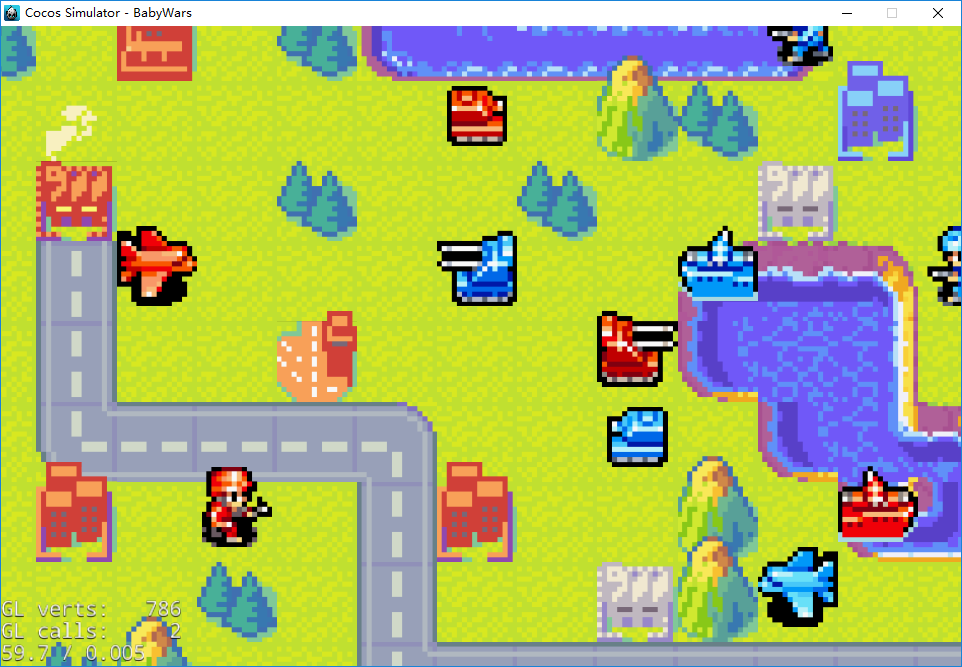
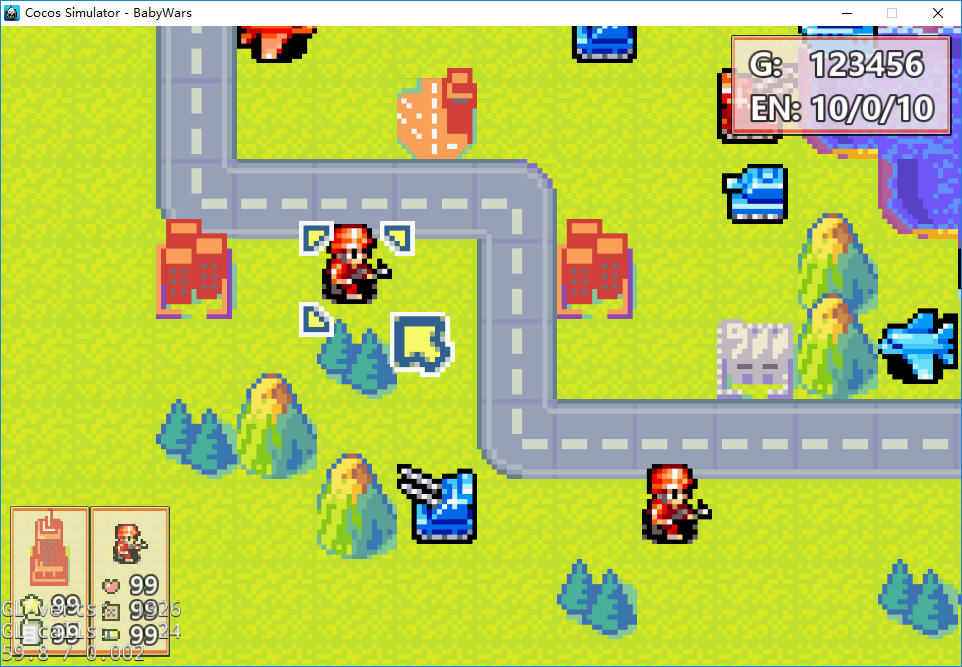
Add ViewMapCursor.lua.

diff --git a/external/Wiki/Features.md b/external/Wiki/Features.md
@@ -1,19 +1,20 @@
-## 战场界面
-战场界面就是玩家进行对战走局时所看到的界面（对应代码中的SceneWar.lua）。
+# 战场界面
+战场界面就是玩家进行对战走局时所看到的界面（对应代码中的ViewSceneWar.lua）。
 
-### 光标
-原作的界面上有一个光标，可以在地图上移动，以及用于选中某建筑或单位和进行相应操作。  
-在无触摸的情况下，光标是必须的，否则玩家不知道自己目前的操作焦点在哪里；但在本作中，由于允许触摸，玩家可以随时点击他所看到的任何东西，所以光标暂时显得没有必要。
+## 光标是否必要？
+最初我以为在全触摸操作之下，光标不是很有必要，因此不打算实现光标。但现在发现，如果没有光标，玩家的思考在某些情况下可能会受干扰，如：
+- 思考特定单位的行动时，可能看着看着就看错单位了
+- 指定攻击对象时，可能会误操作而不自知
 
-本作暂不打算实现光标。
+因此，光标还是必要的。
 
-### 战场信息与操作菜单的呈现
+## 战场信息与操作菜单的呈现
 战场上的某些信息会对玩家的思考产生直接影响，且会随着战局发展而频繁变化，因此界面上应当显示这些信息（至少在空闲状态下）。  
 这些信息至少包括：
   - 当前玩家持有的金钱数量
   - 当前玩家使用的CO的能量槽
   - 焦点单位的血量、燃料、弹药
-  - 焦点地形的防御补正、血量
+  - 焦点地形的防御补正、血量、占领值
 
 至于战场操作菜单，它至少应当包含以下几项菜单项：
   - 打开详细战场信息（如CO信息、部队列表等）的界面
@@ -30,13 +31,13 @@
   
 为了美观，本作将采用战场信息在地图上浮动显示的方式。
   
-## 单位行动
+# 单位行动
   一个单位的一次行动可能包括一个或多个步骤，比如移动，移动+攻击，移动+占领，等等。所有的步骤都由玩家自行选择。  
   在玩家激活某个单位后、计划并确认当前行动中的所有步骤之前，玩家可以随意修改任意步骤；确认后，单位就按照这些步骤行动，玩家不能半途取消。
   
   这种操作方式可以避免玩家在雾战中试探地图，而且可以方便地把所有会对战局产生影响的计算彻底交由服务器进行（玩家修改步骤的计算可以在客户端进行，确认步骤后，客户端把步骤上传到服务器，服务器计算出这些步骤产生的结果并返回给客户端呈现），避免作弊。
   
-## 在线对战
+# 在线对战
   所有会影响战局的计算都交由服务器进行，客户端只负责把玩家的操作上传，以及呈现服务器的计算结果。  
   换言之，如果用MVC的视角来看待战局，那么M在服务器上，VC在客户端上。
   
